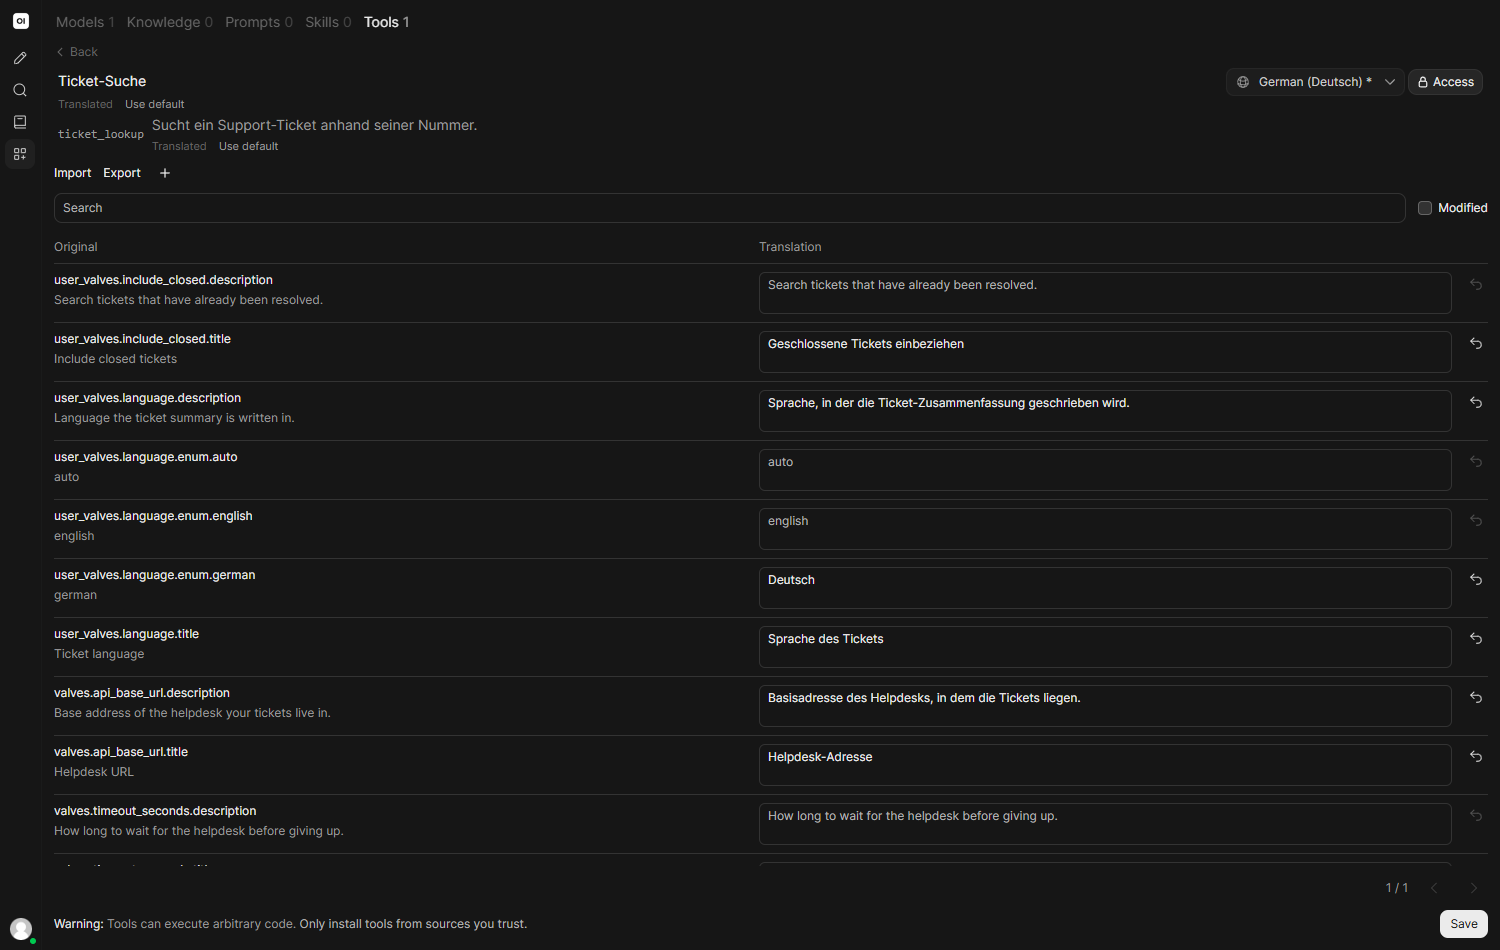
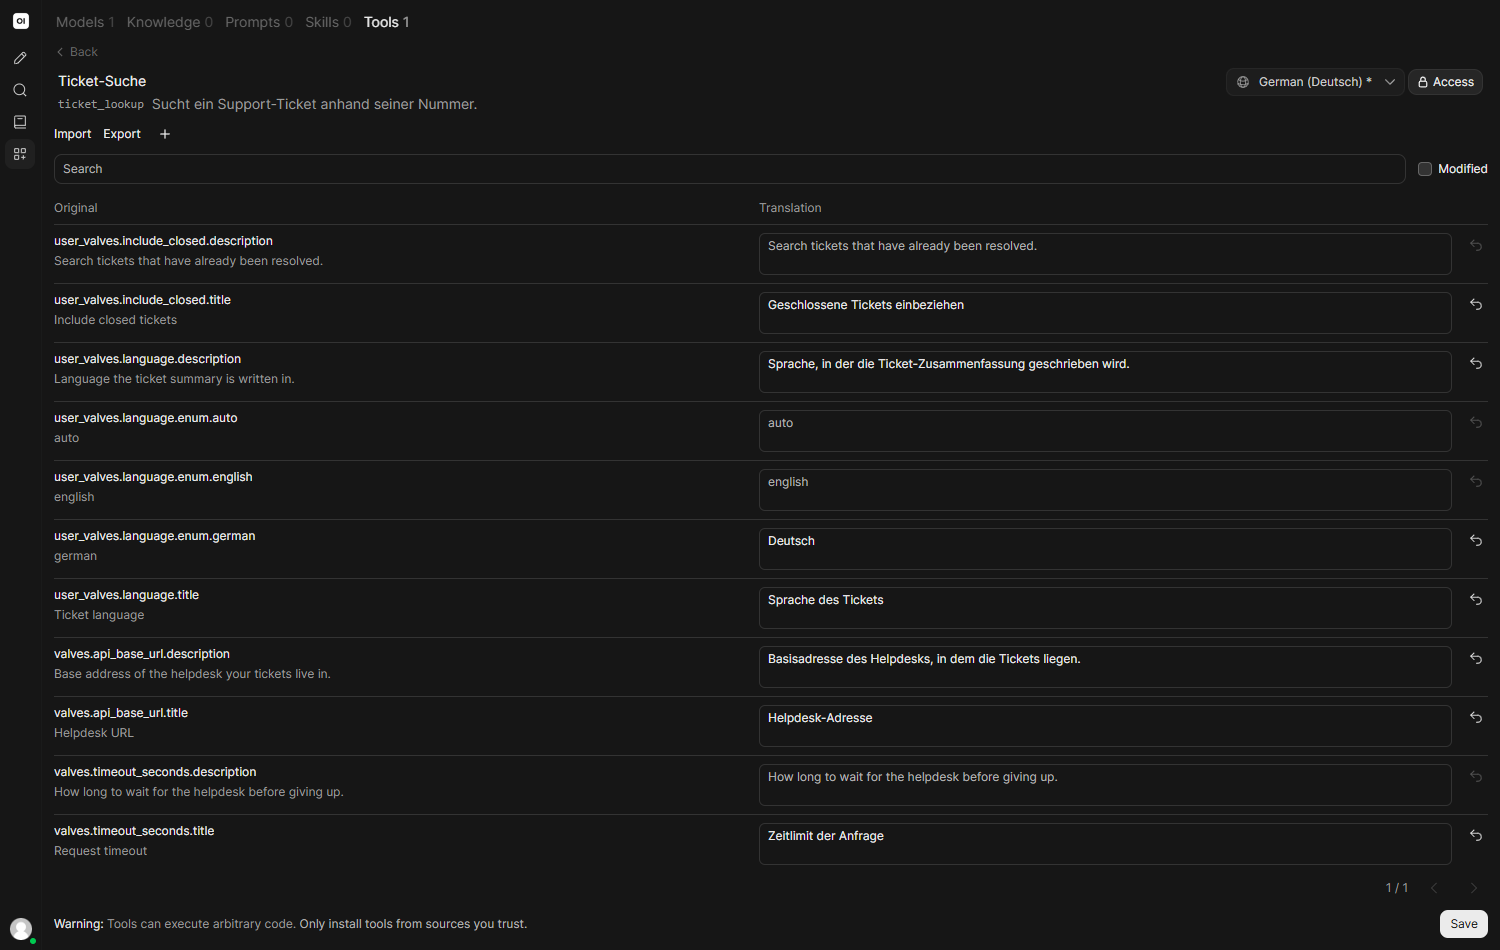
Drop the Translated status labels and refresh the screenshots
The status text under a translated field is gone, and tool and skill names and descriptions no longer carry the Copy default and Use default buttons at all. The page described both, and all three screenshots still showed the old labels, so they are retaken against the current interface.

diff --git a/docs/features/administration/translations.md b/docs/features/administration/translations.md
@@ -36,7 +36,7 @@ Every language Open WebUI ships is offered, English included. **Default** is not
 
 In the resource editors, a language that already carries text is marked with `*`, so you can see at a glance what has been translated.
 
-Under each translated field you get **Translated** or **Using default**, plus two buttons: **Copy default** drops the original in as a starting point, and **Use default** clears the translation so the original is used again.
+In the model editor, the banner list and the arena dialog, a translated field carries two small buttons: **Copy default** drops the original in as a starting point, and **Use default** clears the translation so the original is used again. Tool and skill names and descriptions have no buttons, just type in the field, and empty it again to go back to the original.
 
 ![A model editor switched to German, with a translated name, description and prompt suggestions](/images/features/translations/model-editor-translations.png)
 
